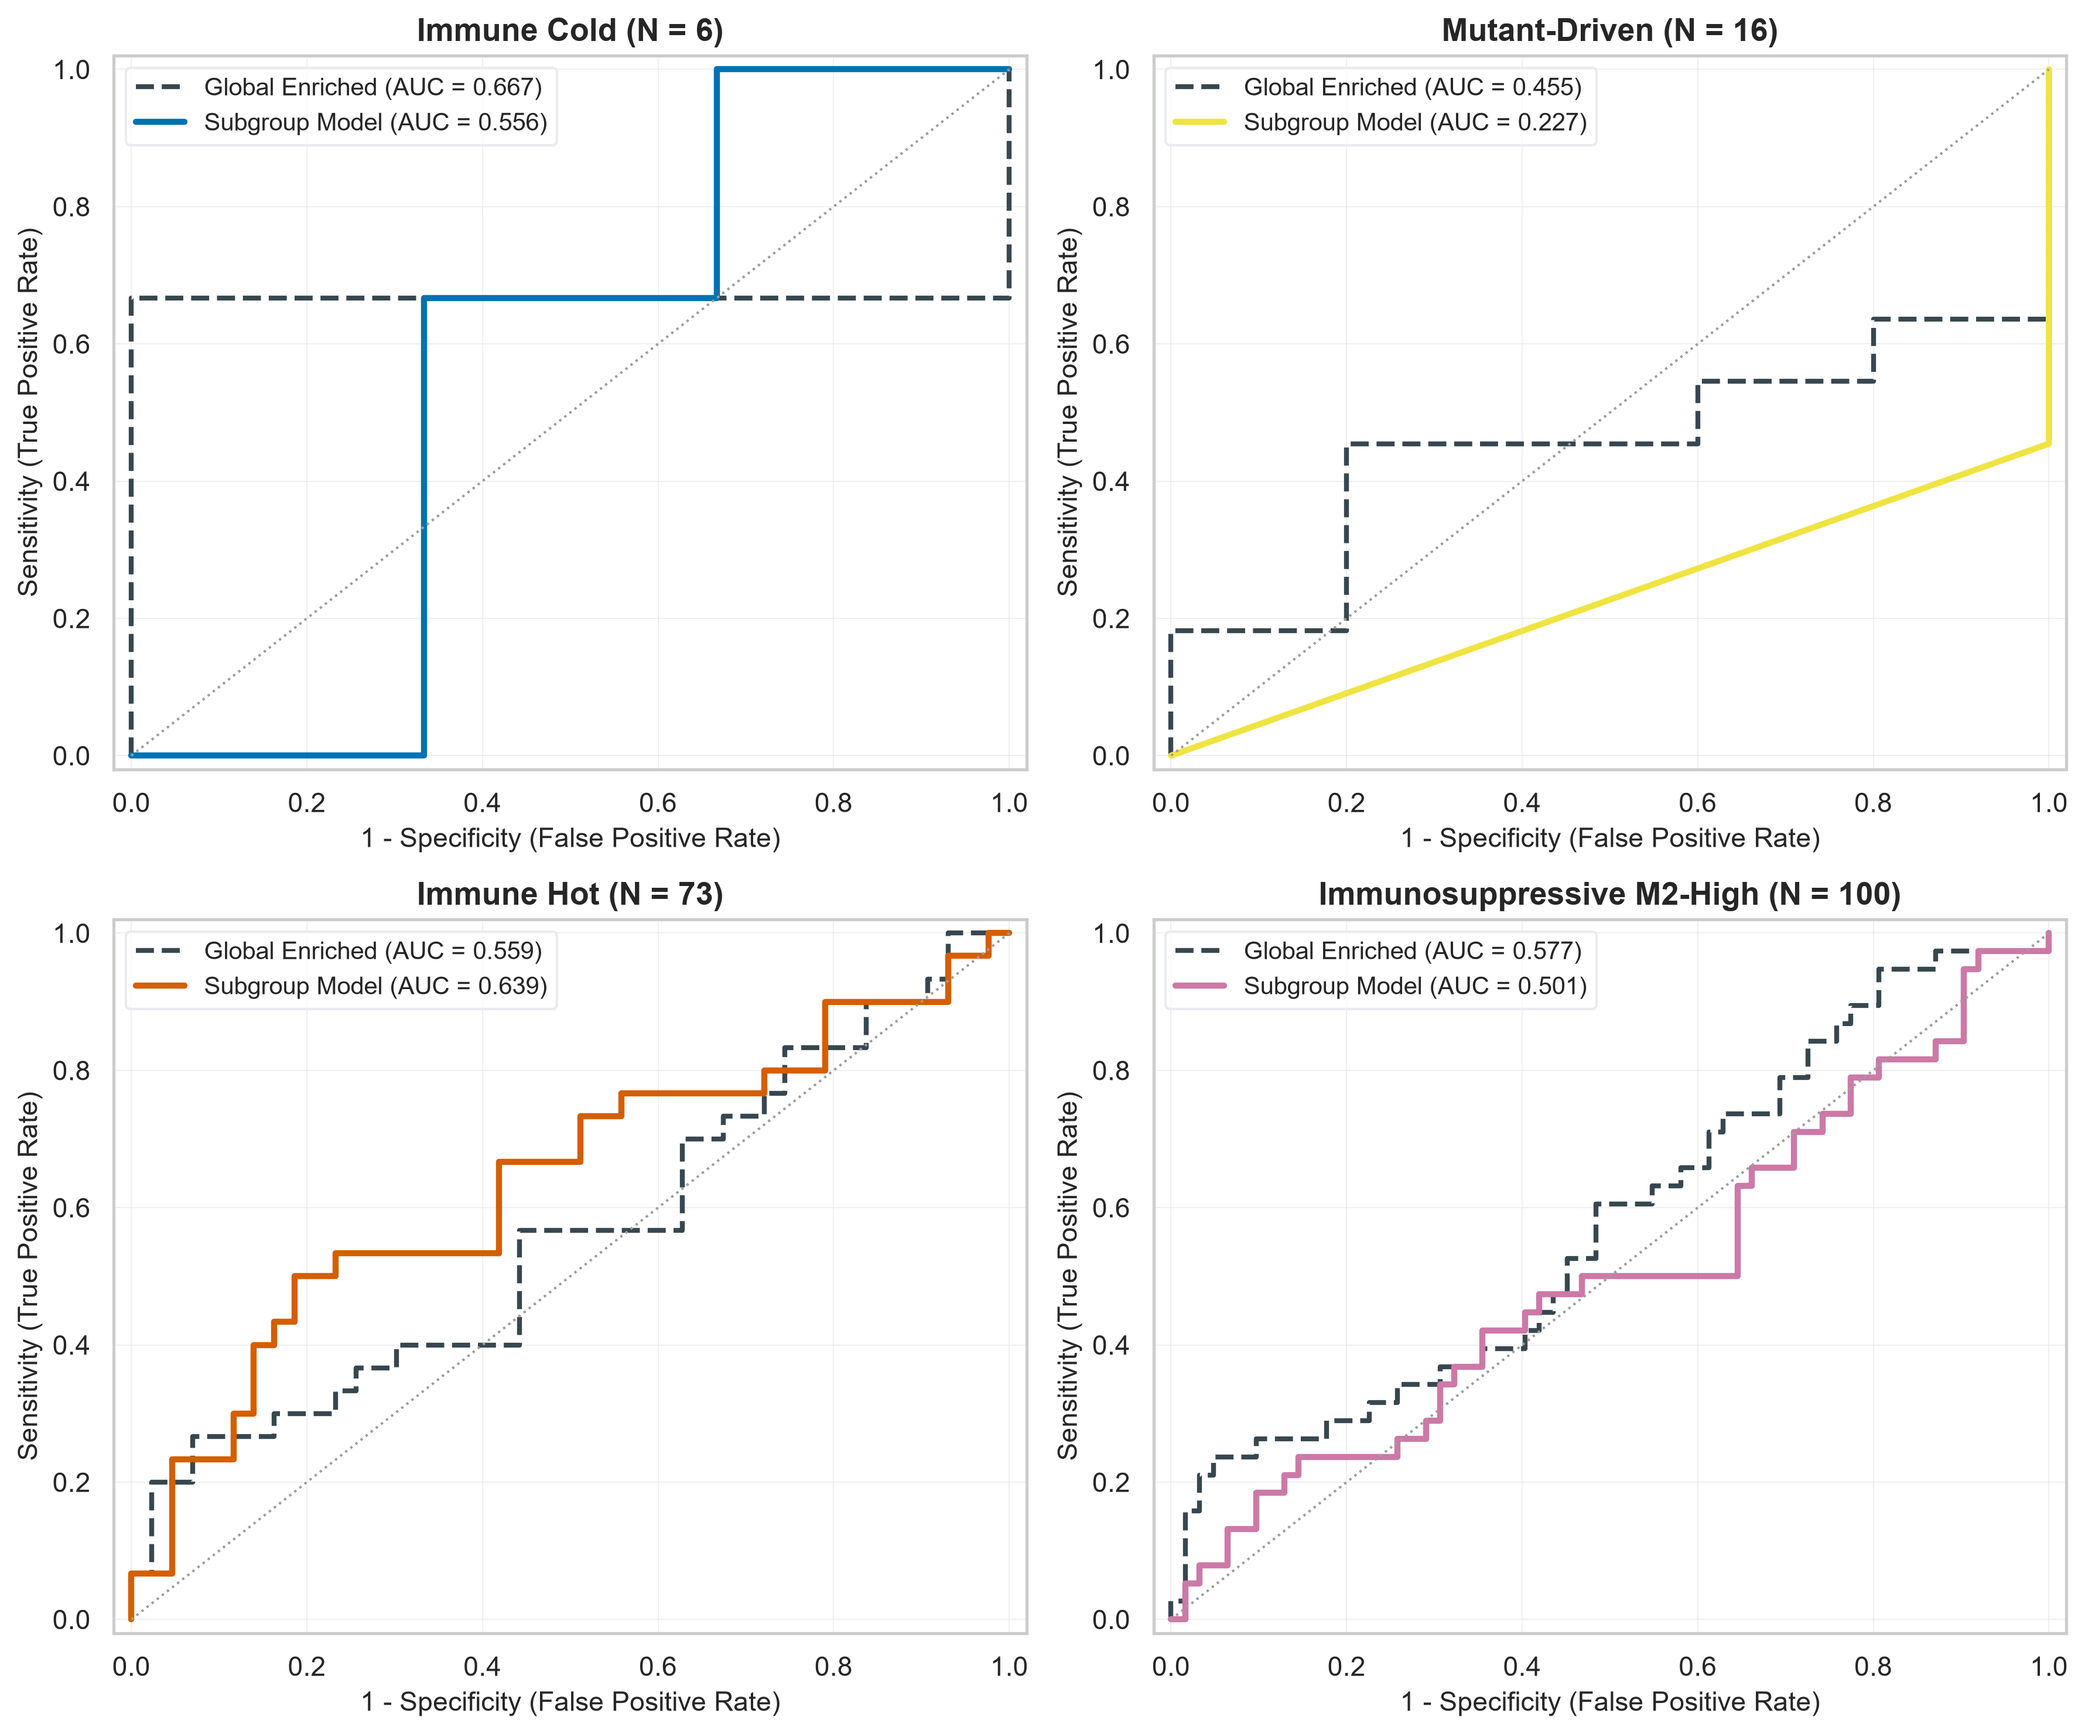
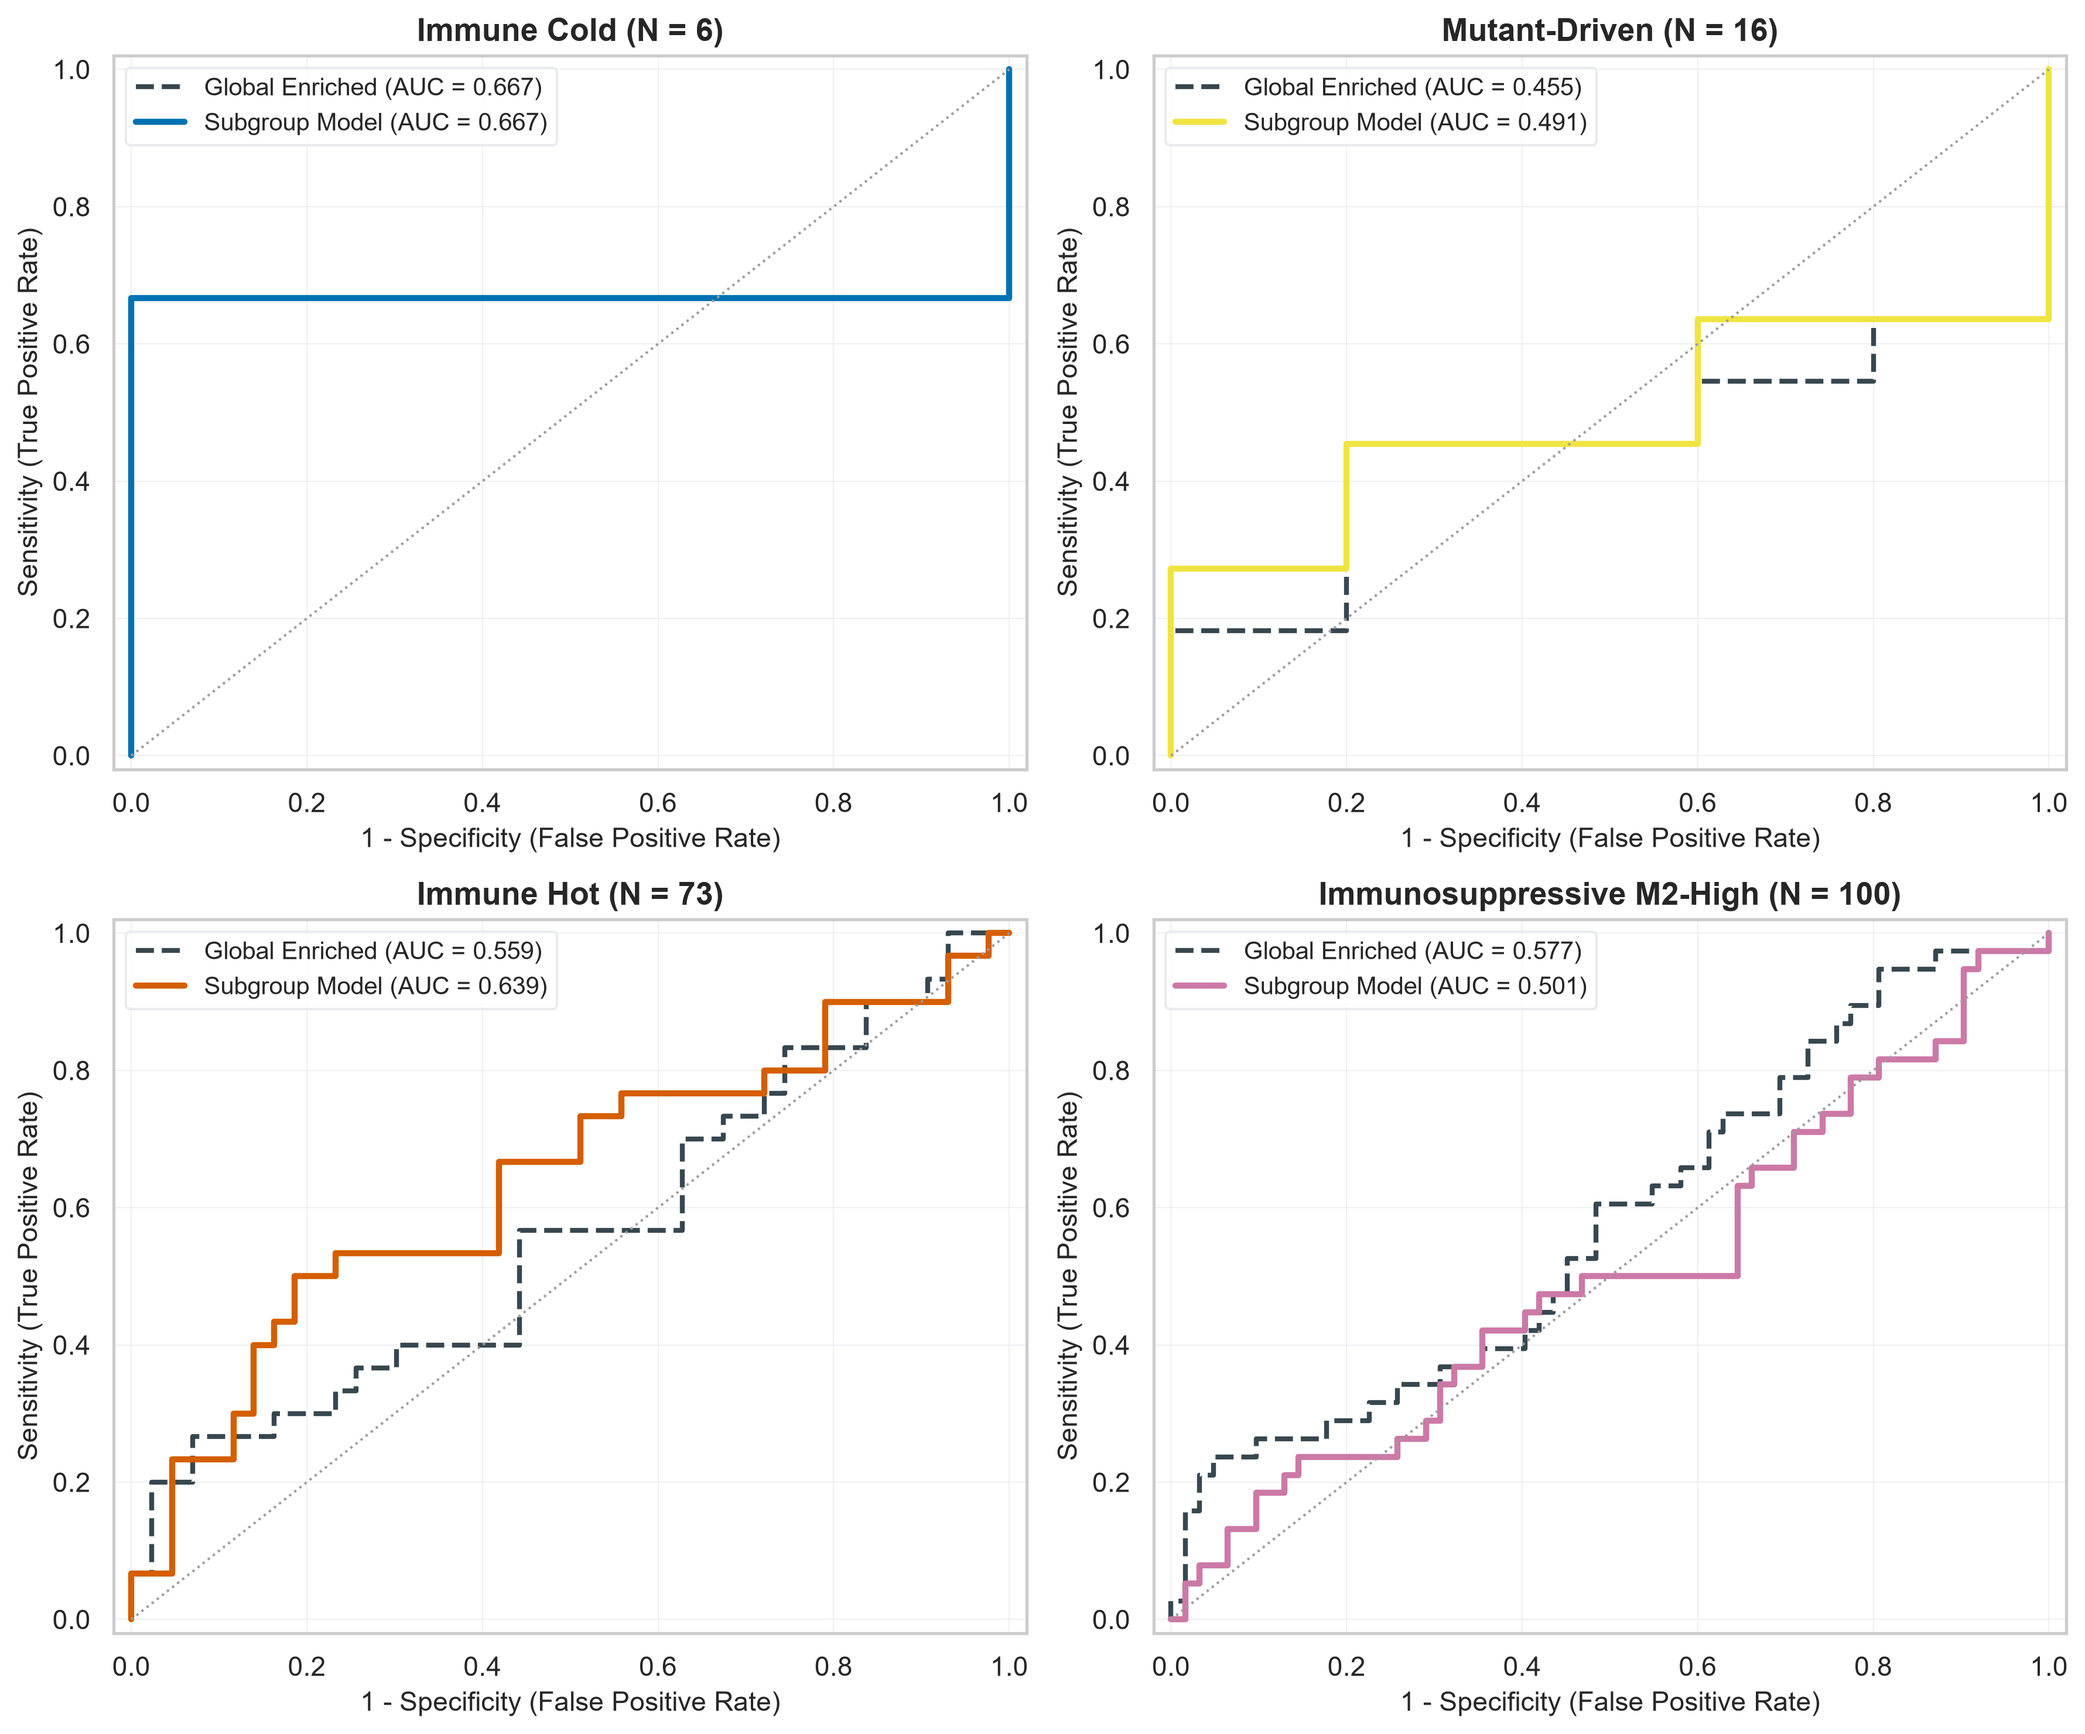
fix(q5): add effective sample size guard to LOCO CV folds for underpowered clusters
- Require at least 5 effective training samples with weights > MIN_PROB_WEIGHT in LOCO folds
- Fall back gracefully to global predictions when a single cohort dominates a cluster fold
- Improve LOCO subgroup AUC stability for Mutant-Driven and Immune Hot clusters

diff --git a/q5-patient-stratification/scripts/05_subgroup_models.py b/q5-patient-stratification/scripts/05_subgroup_models.py
@@ -322,9 +322,13 @@ def _compute_subgroup_oof_predictions(
 
         for k in range(n_clusters):
             weights_k = w_tr[:, k]
+            meaningful = weights_k > MIN_PROB_WEIGHT
+            effective_n_tr = meaningful.sum()
+            y_sub = y_tr[meaningful]
+
             # Fall back to global predictions when the training fold has
-            # negligible cluster weight or only a single response class.
-            if weights_k.sum() < 1e-9 or len(np.unique(y_tr)) < 2:
+            # fewer than 5 effective cluster samples or only a single response class
+            if effective_n_tr < 5 or len(np.unique(y_sub)) < 2:
                 fold_blend += w_te[:, k] * global_oof_prob[test_idx]
                 continue
             preds_k = _fit_predict_fold(

diff --git a/q5-patient-stratification/reports/q5_phases/phase_6.md b/q5-patient-stratification/reports/q5_phases/phase_6.md
@@ -7,14 +7,14 @@ tags:
   - nnt
   - clinical-utility
   - phase-6
-created: 2026-07-31 19:39
+created: 2026-07-31 19:47
 cssclasses:
   - table-small
   - table-center
   - row-alt
 obsidianEditingMode: preview
 obsidianUIMode: source
-updated: 2026-07-31 19:39
+updated: 2026-07-31 19:47
 ---
 
 ## 6. Phase 6: Clinical Utility & Decision Curve Analysis

diff --git a/q5-patient-stratification/reports/q5_phases/phase_7.md b/q5-patient-stratification/reports/q5_phases/phase_7.md
@@ -7,14 +7,14 @@ tags:
   - depmap
   - lincs
   - phase-7
-created: 2026-07-31 19:40
+created: 2026-07-31 19:47
 cssclasses:
   - table-small
   - table-center
   - row-alt
 obsidianEditingMode: preview
 obsidianUIMode: source
-updated: 2026-07-31 19:40
+updated: 2026-07-31 19:47
 ---
 
 ## 7. Phase 7: 3-Arm Decision Support & Treatability Scoring
